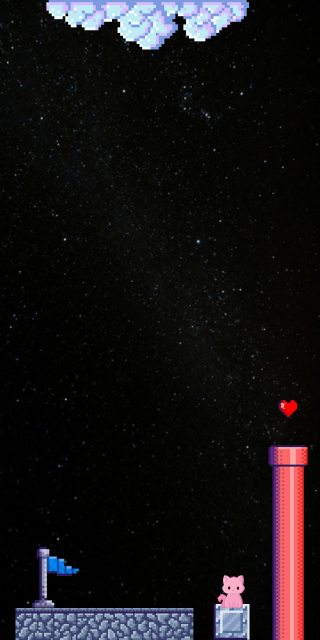
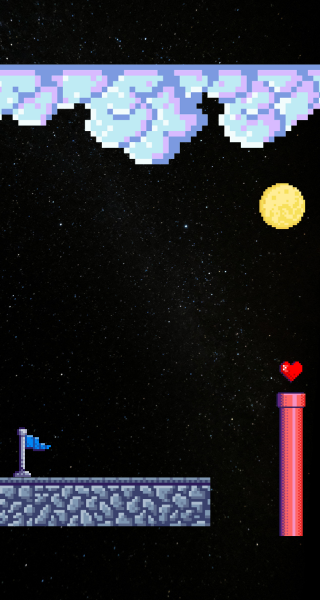
Changed background for mobile view

diff --git a/style.css b/style.css
@@ -79,7 +79,7 @@ ul.our-team li {
   display: block;
   width: auto;
   height: auto;
-  padding-top: 20vh;
+  padding-top: 18vh;
   /* font-size: 3em; */
   text-align: center;
   font-family: 'Press Start 2P', cursive;
@@ -455,8 +455,9 @@ filter: blur(8px);
     filter : hue-rotate(360deg);
   }
 }
-@media (max-width : 480px) {
+@media (max-width : 425px) {
   .imagecontainer{
     background-image: url("img/meetOurTeam_mobile_view.png");
+    
   }
 }
